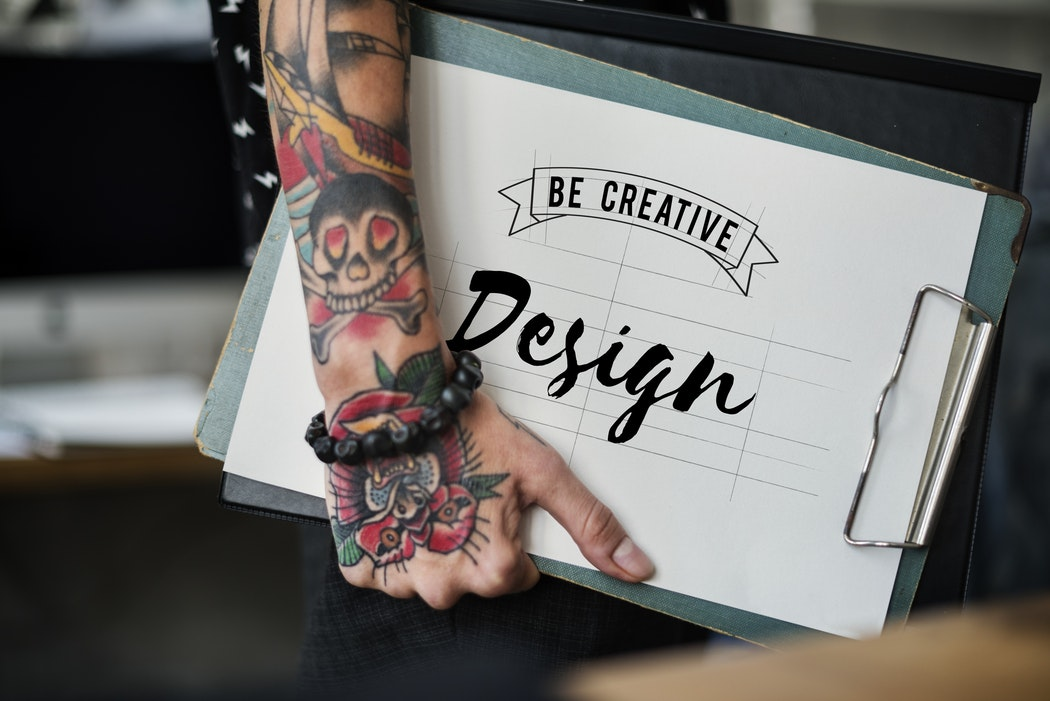
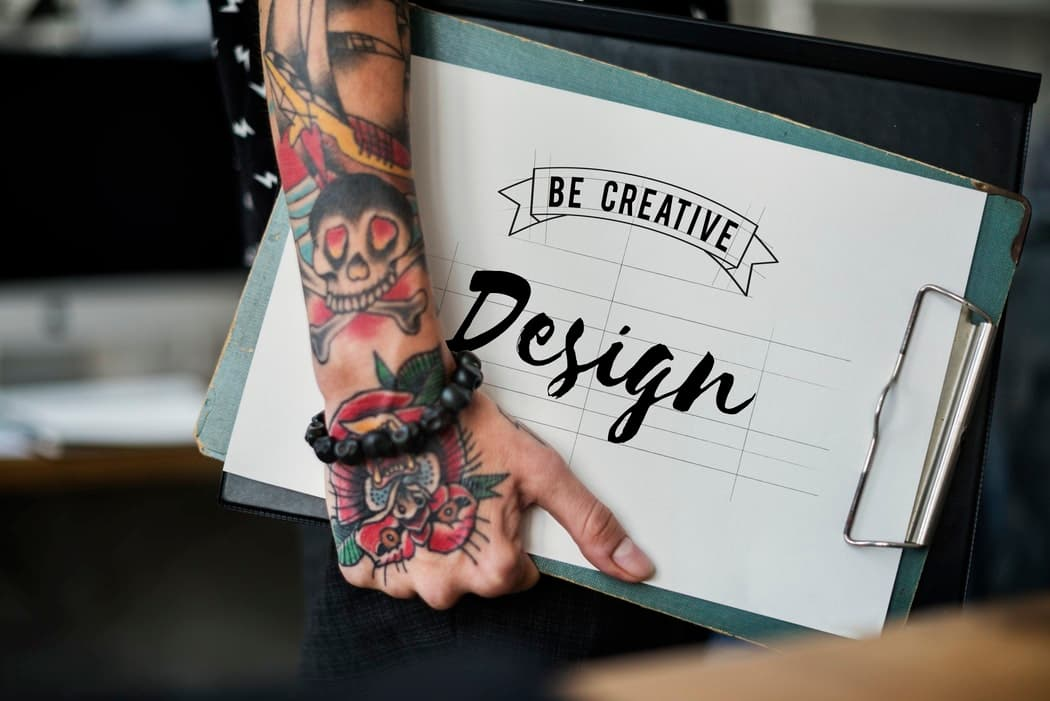
img Resized

diff --git a/site/index.html b/site/index.html
@@ -10,6 +10,7 @@
     <link rel="stylesheet" href="https://use.fontawesome.com/releases/v5.5.0/css/all.css" integrity="sha384-B4dIYHKNBt8Bc12p+WXckhzcICo0wtJAoU8YZTY5qE0Id1GSseTk6S+L3BlXeVIU" crossorigin="anonymous">
     <link href="https://fonts.googleapis.com/css?family=EB+Garamond|Source+Sans+Pro" rel="stylesheet">
     <link rel="stylesheet" type="text/css" href="rosa.css">
+    <link href="https://fonts.googleapis.com/css?family=Charm:400,700" rel="stylesheet">
 
     <title>DelaRoze</title>
   </head>
@@ -46,20 +47,19 @@
 
 		 <div id="sectionII" class="container-fluid">
 			<div class="text-center"> 
-				<img src="jason-briscoe-1566e49-unsplash.jpg" class="img-fluid"  alt="Responsive image" width="80%">
+				<img src="jason-briscoe-1566e49-unsplash.jpg" class="img-fluid"  alt="Responsive image">
 			</div>
 		 </div>
 			
 
 		<!--------------- Third Section --------------- -->
 
-		<div class="container">
-			<div class="sectionIII">
+		<div class="container" id="sectionIII">
 				<div class="row">
 					 <div class="col note"><img src="vexelscopyright.png" class="img-fluid" alt="Responsive image" width=""></div> 
 					 <div class="col note2 line1"><p>Bacon ipsum dolor amet capicola steak landjaeger, biltong spare ribs rump cow ground round andouille sirloin pork.</p></div>
 				</div>
-			</div>
+			
 		
 		
 		<!----------------------- Section Four ------------------->
@@ -110,37 +110,93 @@
 
 		<!----------------------- test ------------------->
 	<div class="container">	
-		<div id="carouselExampleSlidesOnly" class="carousel slide" data-ride="carousel">
-  			<div class="carousel-inner">
-    			<div class="carousel-item active">
-      				<img class="d-block w-100" src="photo-92e.jpg" alt="First slide">
-    			</div>
-    			<div class="carousel-item">
-      				<img class="d-block w-100" src="photo-1534323100132-7e4d260dca42.jpg" alt="Second slide">
-    			</div>
-    			<div class="carousel-item">
-      				<img class="d-block w-100" src="cleo-vermij-576806-unsplash.jpg" alt="Third slide">
-    			</div>
- 			 </div>
+		<div id="carouselExampleIndicators" class="carousel slide" data-ride="carousel">
+		  <ol class="carousel-indicators">
+		    <li data-target="#carouselExampleIndicators" data-slide-to="0" class="active"></li>
+		    <li data-target="#carouselExampleIndicators" data-slide-to="1"></li>
+		    <li data-target="#carouselExampleIndicators" data-slide-to="2"></li>
+		  </ol>
+		  <div class="carousel-inner">
+		    <div class="carousel-item active">
+		      <img src="photo-92e.jpg" class="d-block w-100" alt="...">
+		    </div>
+		    <div class="carousel-item">
+		      <img src="photo-1534323100132-7e4d260dca42.jpg" class="d-block w-100" alt="...">
+		    </div>
+		    <div class="carousel-item">
+		      <img src="cleo-vermij-576806-unsplash.jpg" class="d-block w-100" alt="...">
+		    </div>
+		  </div>
+		  <a class="carousel-control-prev" href="#carouselExampleIndicators" role="button" data-slide="prev">
+		    <span class="carousel-control-prev-icon" aria-hidden="true"></span>
+		    <span class="sr-only">Previous</span>
+		  </a>
+		  <a class="carousel-control-next" href="#carouselExampleIndicators" role="button" data-slide="next">
+		    <span class="carousel-control-next-icon" aria-hidden="true"></span>
+		    <span class="sr-only">Next</span>
+		  </a>
 		</div>
 	</div>
+
+
+	<!-- ---------------------- Cards 8------------------------------ -->
+
+
+	<div class="container-fluid cards">
+		<div class="row">
+			<div class="col-lg-4 col-md-4 col-sm-12">
+				<div class="card" style="width: 18rem;">
+				  <img src="devin-edwards-776950-unsplash.jpg" class="card-img-top" alt="...">
+				  <div class="card-body">
+				    <h5 class="card-title">Design Maker</h5>
+				    <p class="card-text">Some quick example text to build on the card title and make up the bulk of the card's content.</p>
+				    <a href="#" class="btn btn-primary">Go somewhere</a>
+				  </div>
+				</div>
+			</div>
+
+			<div class="col-lg-4 col-md-4 col-sm-12">
+				<div class="card" style="width: 18rem;">
+				  <img src="jordan-whitt-1062151-unsplash.jpg" class="card-img-top" alt="...">
+				  <div class="card-body">
+				    <h5 class="card-title">Designer</h5>
+				    <p class="card-text">Some quick example text to build on the card title and make up the bulk of the card's content.</p>
+				    <a href="#" class="btn btn-primary">Go somewhere</a>
+				  </div>
+				</div>
+			</div>
+
+
+			<div class="col-lg-4 col-md-4 col-sm-12">
+				<div class="card" style="width: 18rem;">
+				  <img src="volha-flaxeco-547021-unsplash.jpg" class="card-img-top" alt="...">
+				  <div class="card-body">
+				    <h5 class="card-title">I'm a Designer</h5>
+				    <p class="card-text">Some quick example text to build on the card title and make up the bulk of the card's content.</p>
+				    <a href="#" class="btn btn-primary">Go somewhere</a>
+				  </div>
+				</div>
+			</div>
+		</div>
+	 </div>
+	
+
+
+	
+
 
 
 	<!------------------- Photos ----------------->
-
+<!-- 
 	<div class="container-fluid" id="sectionVIII">
 		<div class="row">
-			<div class="col-lg-4 col-md-6"><img src="devin-edwards-776950-unsplash.jpg" class="img-fluid" alt="Responsive image"></div>
-			
 			<div class="col-lg-4 col-md-6"><img src="frank-mckenna-135725-unsplash.jpg" class="img-fluid" alt="Responsive image"></div>
-			<div class="col-lg-4 col-md-6"><img src="alexander-andrews-290794-unsplash.jpg" class="img-fluid" alt="Responsive image"></div>
+			
 			<div class="col-lg-4 col-md-6"><img src="rawpixel-797131-unsplash.jpg" class="img-fluid" alt="Responsive image"></div>
 			<div class="col-lg-4 col-md-6"><img src="fancycrave-254180-unsplash.jpg" class="img-fluid" alt="Responsive image"></div>
 			<div class="col-lg-4 col-md-6"><img src="rawpixel-250087-unsplash.jpg" class="img-fluid" alt="Responsive image"></div>
-			
-			
 		</div>
-	</div>
+	</div> -->
 
 
 
@@ -162,12 +218,25 @@
 
 		<!----------------------- Footer ------------------->
 
+	
+				<footer class="page-footer font-small">
+				  <div class="container-fluid">
+					<div class="row end">
+						<div class="col">It is a long established fact that a reader will be distracted by the readable content of a page when looking at its layout. The point of using Lorem Ipsum is that it has a more-or-less normal distribution of letters, as opposed to using 'Content here, content here model text, and a search for 'lorem ipsum' will uncover many web sites still in their infancy. Various versions have evolved over the years, sometimes by accident, sometimes on purpose (injected humour and the like</div>
+						<div class="col"> making it look like readable English. Many desktop publishing packages and web page editors now use Lorem Ipsum as their default </div>
+						<div class="col">model text, and a search for 'lorem ipsum' will uncover many web sites still in their infancy. Various versions have evolved over the years, sometimes by accident, sometimes on purpose (injected humour and the like</div>
+						<div class="col-lg-12">
+				 	 <div class="footer-copyright text-center py-3">© 2019 Copyright:
+				    	<a href="https://mdbootstrap.com/education/bootstrap/">zahraa khalil</a>
+				  	</div>
+						</div>
+					</div>
+				  </div>
+				</footer>
+			
+		
 
-		<footer class="page-footer font-small">
-		  <div class="footer-copyright text-center py-3">© 2019 Copyright:
-		    <a href="https://mdbootstrap.com/education/bootstrap/">zahraa khalil</a>
-		  </div>
-		</footer>
+		
    
 	
      

diff --git a/site/rosa.css b/site/rosa.css
@@ -7,29 +7,29 @@
 
 nav{
 	font-family: 'EB Garamond', serif;
+
 }
 
-b{
+b {
 	color: /*#4d0039*/ #9c206e;
 }
 /*-------------- sectionII ----------------*/
 
-
-
+#sectionII{
+	width: 90%;
+}
 
 /*-------------- sectionIII ----------------*/
-.sectionIII{
-
+#sectionIII{
 	/*background-color: #ffe6d1;*/
-	margin-top: 1em;
+	margin-top: -2em;
 
  }
  .note{
  	/*background-color: #e6e6e6;*/
  }
  .note2{
- 	/*background-color: #e0afd8fa;*/
- 	
+ 	/*background-color: #e0afd8fa;*/	
  }
  .line1 p{
  	
@@ -161,7 +161,7 @@ b{
 #sectionVIII{
 	margin-top: 3rem;
 	
-	background-color: #660033;
+	/*background-color: #660033;*/
 		
 }
 #sectionVIII img{
@@ -173,17 +173,39 @@ b{
 
 
 
+/*---------------- cards 8 ------------------*/
+
+
+.card{
+
+	margin: 0 auto;
+}
+
+.cards{
+	margin-top: 5rem;
+	margin-bottom: 5rem;
+}
+
+
+
+
+
 
 
 /*---------------- footer --------------------*/
 
 footer{
-	background-color:    /*#4d0026*/  #4d0039; /* #660033	*/
-
-	
+	background-color:    /*#4d0026*/  #660033; /* #660033	*/
 }
-.footer-copyright a{
-	color: 	#DB7093;	
+
+
+.end{
+	padding-top: 3rem;
+	color: white;
+	/*font-family: 'Charm', cursive;*/
+	font-family: 'EB Garamond', serif;
+
+
 }
 
 
